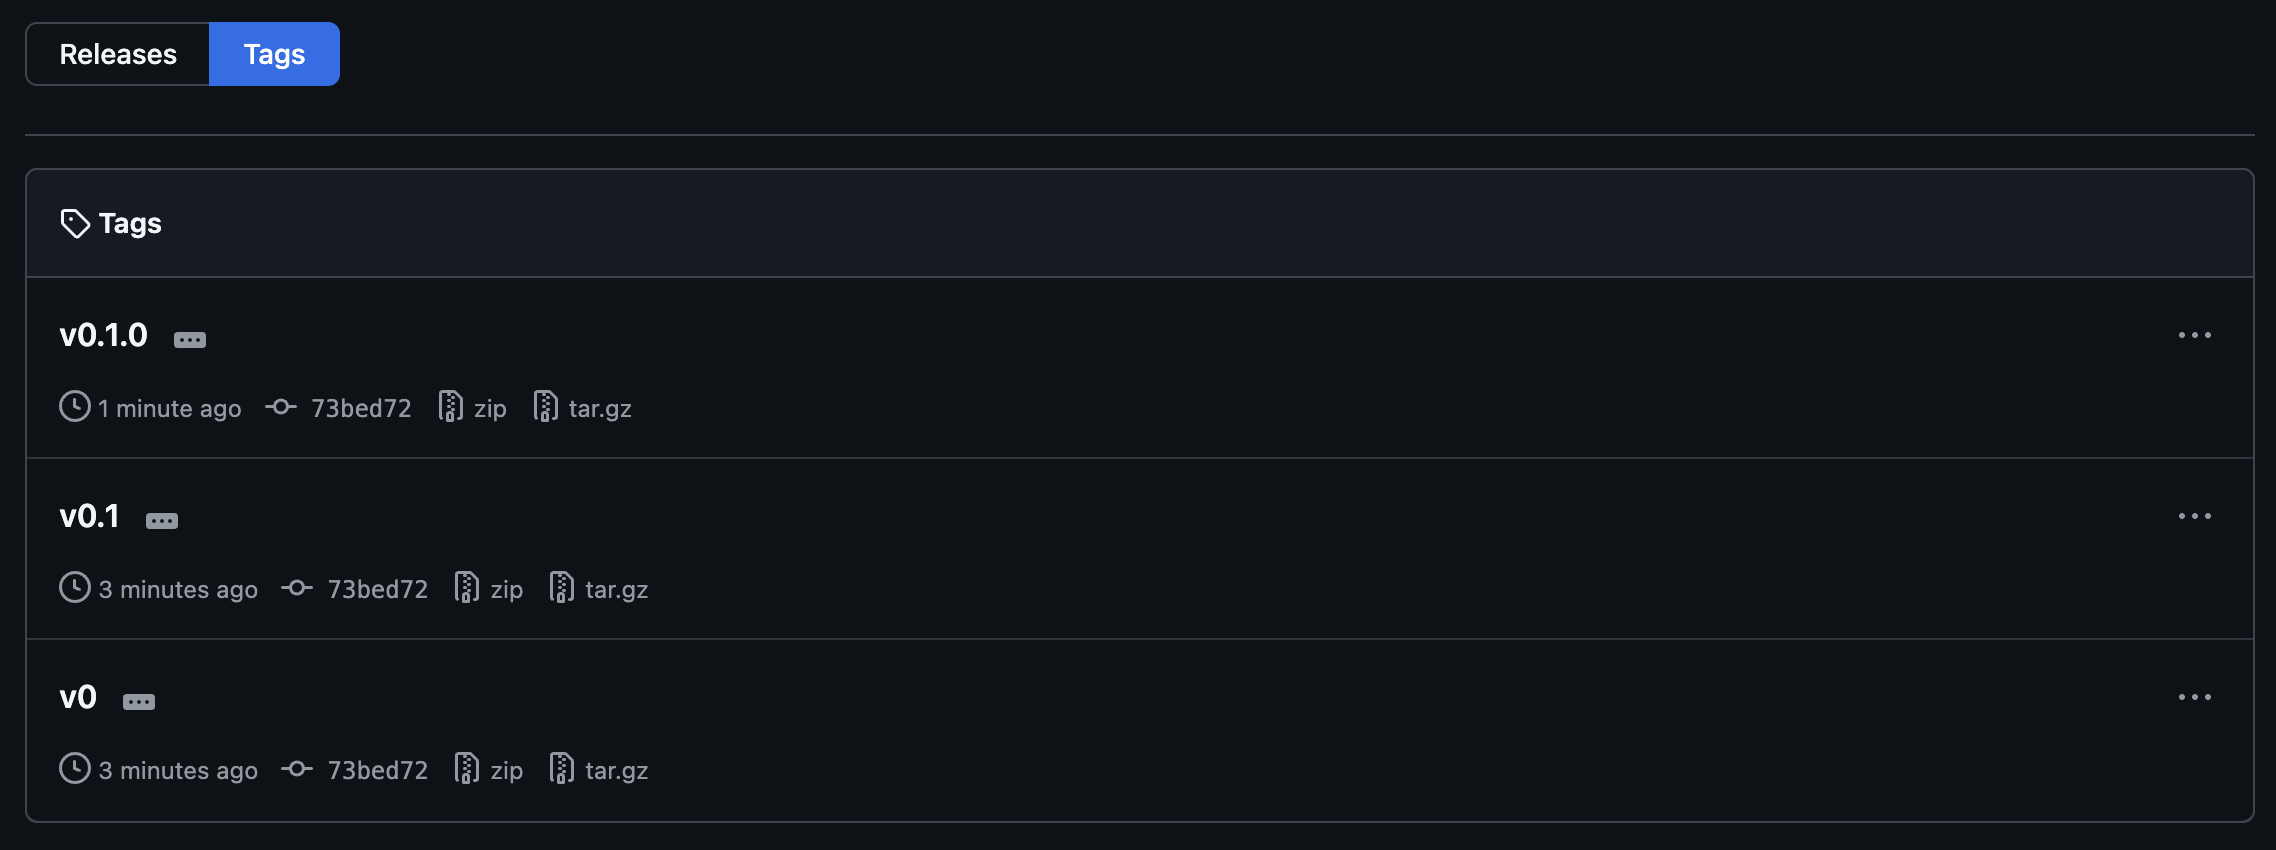
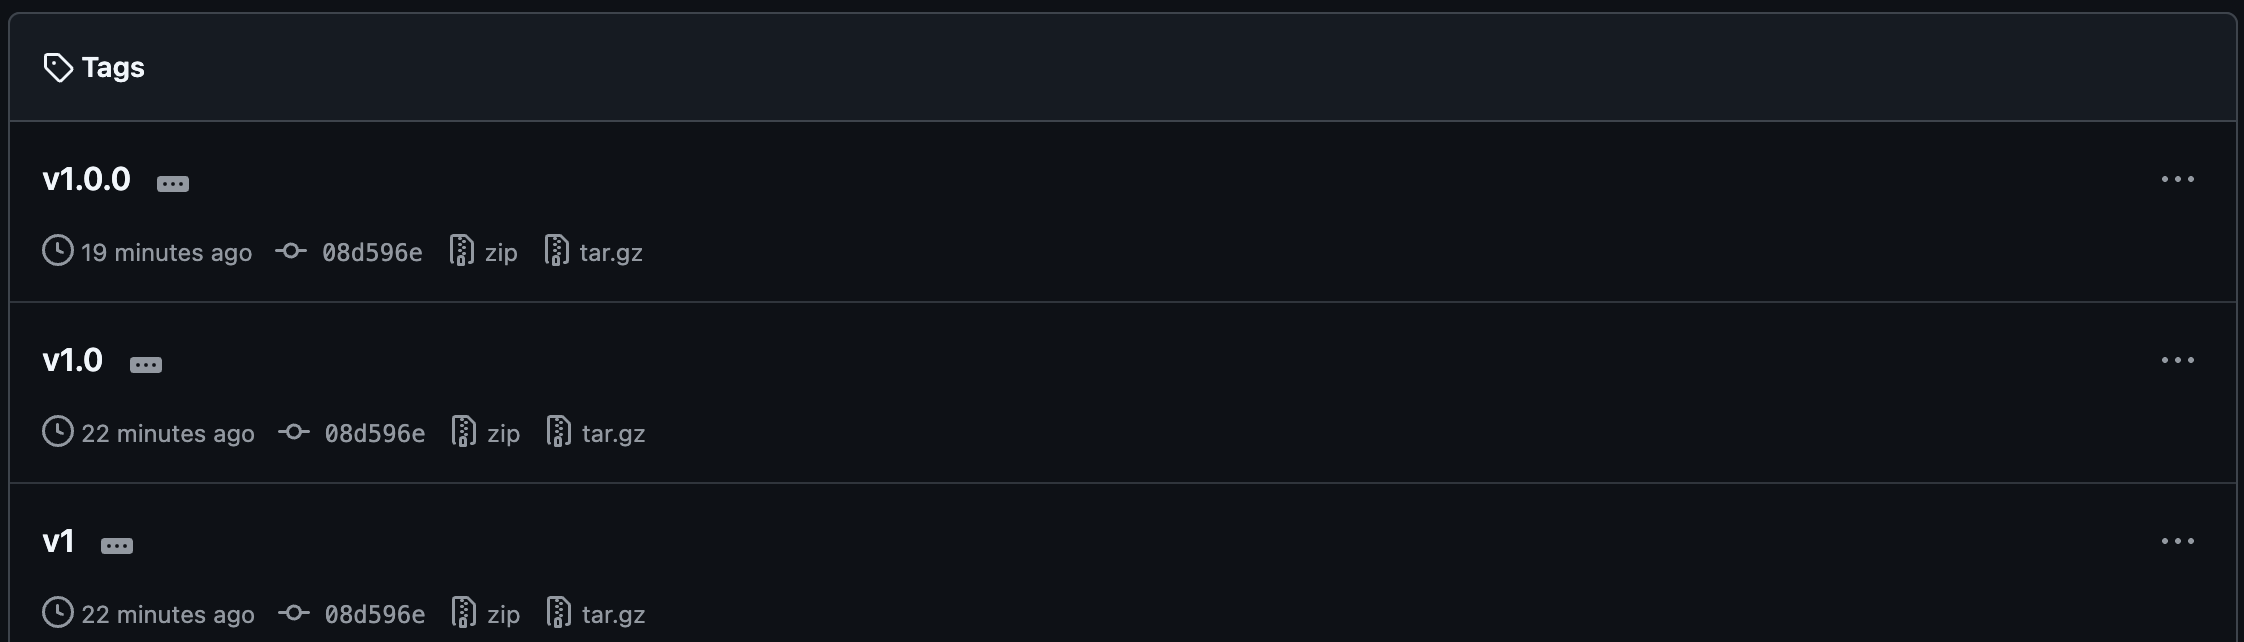
Lab updates

diff --git a/__tests__/html_actuator.test.ts b/__tests__/html_actuator.test.ts
@@ -83,22 +83,6 @@ describe('HTMLActuator', () => {
     })
   })
 
-  describe('updateScore()', () => {
-    it('Updates the score', () => {
-      const clearContainer = jest
-        .spyOn(HTMLActuator, 'clearContainer')
-        .mockImplementation(() => {})
-
-      HTMLActuator.scoreContainer = document.createElement('div')
-      HTMLActuator.scoreContainer.textContent = '0'
-
-      HTMLActuator.updateScore(2)
-
-      expect(clearContainer).toHaveBeenCalledTimes(1)
-      expect(HTMLActuator.scoreContainer.textContent).toBe('2+2')
-    })
-  })
-
   describe('message()', () => {
     it('Sets the message (won)', () => {
       const p = document.createElement('p')

diff --git a/__tests__/game_manager.test.ts b/__tests__/game_manager.test.ts
@@ -154,7 +154,7 @@ describe('GameManager', () => {
 
       GameManager.addStartTiles()
 
-      expect(addStartTile).toHaveBeenCalledTimes(2)
+      expect(addStartTile).toHaveBeenCalled()
     })
   })
 

diff --git a/solutions/7-github-flow/application.ts b/solutions/7-github-flow/application.ts
@@ -4,6 +4,6 @@ import { GameManager } from './game_manager.js'
 window.requestAnimationFrame(function () {
   animFramePolyfill()
 
-  // Lab 6: Grid Size
+  // Lab 7: Grid Size
   new GameManager(5)
 })

diff --git a/src/application.ts b/src/application.ts
@@ -4,6 +4,6 @@ import { GameManager } from './game_manager.js'
 window.requestAnimationFrame(function () {
   animFramePolyfill()
 
-  // Lab 6: Grid Size
+  // Lab 7: Grid Size
   new GameManager(3)
 })

diff --git a/labs/10-create-a-release.md b/labs/10-create-a-release.md
@@ -20,7 +20,7 @@ changes that have been made, and also to provide a changelog for our users.
 1. Create a new release branch
 
    ```bash
-   git checkout -b release/v1.0.0
+   git checkout -b release/v2.0.0
    ```
 
 ## Task 2: Update the Release Version
@@ -30,13 +30,13 @@ releases and changelogs. In order to generate a release, you will need to update
 the version number in the `package.json` file.
 
 1. Open the [`package.json`](../package.json) file in your editor
-1. Change the value of the `version` key to `1.0.0`
+1. Change the value of the `version` key to `2.0.0`
 
    ```jsonc
    {
      "name": "@githubschool/gh-github-intermediate-template",
      "description": "GitHub Intermediate Training - Template",
-     "version": "1.0.0",
+     "version": "2.0.0",
      // ...
    ```
 
@@ -45,10 +45,10 @@ the version number in the `package.json` file.
 
    ```bash
    git add package.json
-   git commit -m "Release version 1.0.0"
+   git commit -m "Release version 2.0.0"
    ```
 
-1. Push the `release/v1.0.0` branch to GitHub
+1. Push the `release/v2.0.0` branch to GitHub
 
    ```bash
    git push
@@ -59,7 +59,7 @@ the version number in the `package.json` file.
 1. In your browser, navigate to your repository on GitHub
 1. Click on the **Pull requests** tab
 1. Click the **New pull request** button
-1. Click the **Compare** button, then select your `release/v1.0.0` branch
+1. Click the **Compare** button, then select your `release/v2.0.0` branch
 1. Click **Create pull request**
 1. Enter a title and description for your PR
 1. Click **Create pull request**
@@ -80,7 +80,7 @@ As other people in the class post their PRs, try to review and approve one.
 1. Ensure **Approve** is selected as the review type
 1. Click **Submit review**
 
-   ![Approved PR](images/approved-pr.png)
+   ![Approved PR](img/11-approved-pr.png)
 
 ## Task 5: Merge the Pull Request
 
@@ -107,13 +107,13 @@ Once your PR has been approved, you can merge it into `main`.
 ## Task 7: View the Release
 
 1. In your browser, navigate to your repository on GitHub
-1. Click on the **v1.0.0** link in the **Releases** section
+1. Click on the **v2.0.0** link in the **Releases** section
 
    ![Releases](img/10-releases.png)
 
 1. Review the auto-generated release notes
 
-   <!-- TODO Screenshot -->
+   ![Release Notes](img/10-release-notes.png)
 
 ## Need Help?
 

diff --git a/labs/11-deploy-to-an-environment.md b/labs/11-deploy-to-an-environment.md
@@ -33,7 +33,7 @@ environment when a comment is made on a pull request (often referred to as
    git checkout -b feature/high-score
    ```
 
-1. Open the [`src/local_storage_manager.ts`](./src/local_storage_manager.ts)
+1. Open the [`src/local_storage_manager.ts`](../src/local_storage_manager.ts)
    file
 1. Locate the comment `// Lab 11: Update Best Score`
 1. Add the following code below the comment
@@ -72,26 +72,19 @@ environment when a comment is made on a pull request (often referred to as
 1. In the comment text field, enter `.deploy`
 
    In a few seconds, you should see a comment is automatically to the pull
-   request stating a deployment is in progress.
+   request stating a deployment is in progress. You should also see that a
+   deployment has been initiated.
 
-   <!-- TODO Screenshot -->
-
-   You should also see that a deployment has been initiated.
-
-   <!-- TODO Screenshot -->
+   ![Start Deployment](./img/11-start-deployment.png)
 
 1. Wait for the deployment to complete
-
-   <!-- TODO Screenshot -->
 
    Another comment will be added to the pull request with a link to the
    deployment.
 
-   <!-- TODO Screenshot -->
+   ![Deployment Complete](./img/11-deployment-complete.png)
 
 1. Click the link to view the deployed game
-
-   <!-- TODO Screenshot -->
 
    As you play the game, your high score should now be saved in the **BEST**
    box.
@@ -108,26 +101,19 @@ is merged.
 1. In the comment text field, enter `.deploy main`
 
    In a few seconds, you should see a comment is automatically to the pull
-   request stating a deployment is in progress.
+   request stating a deployment is in progress. You should also see that a
+   deployment has been initiated.
 
-   <!-- TODO Screenshot -->
-
-   You should also see that a deployment has been initiated.
-
-   <!-- TODO Screenshot -->
+   ![Start Rollback](./img/11-start-rollback.png)
 
 1. Wait for the deployment to complete
 
-   <!-- TODO Screenshot -->
-
-   Another comment will be added to the pull request with a link to the
+   Another comment will be added to the pull request with a link to the rollback
    deployment.
 
-   <!-- TODO Screenshot -->
+   ![Rollback Complete](./img/11-rollback-complete.png)
 
 1. Click the link to view the deployed game
-
-   <!-- TODO Screenshot -->
 
    As you play the game, your high score should no longer be saved.
 

diff --git a/labs/3-git-bisect.md b/labs/3-git-bisect.md
@@ -32,7 +32,8 @@ introduced, but you know it wasn't there when you first created the game.
    ```
 
    From the output of the above command, find a commit where the code change is
-   not present and copy the commit hash.
+   not present and copy the commit hash. You can simply select the earliest
+   commit in the logs (the one labeled `Initial commit`).
 
 1. Indicate a commit where you know the code does not contain the change you're
    looking for
@@ -61,11 +62,10 @@ ones.
    # Found
    $ grep -w "expect(true).toBe(false)" __tests__/keyboard_input_manager.test.ts
     expect(true).toBe(false);
-   $
 
    # Not found
    $ grep -w "expect(true).toBe(false)" __tests__/keyboard_input_manager.test.ts
-   $
+
    ```
 
 1. If the change is present, tell `git bisect` that the current commit is bad
@@ -128,6 +128,7 @@ ones.
    Make sure to replace `expect(true).toBe(false)` with the correct test code.
 
    ```typescript
+   // Lab 3: Git Bisect
    const listen = jest
      .spyOn(KeyboardInputManager, 'listen')
      .mockImplementation(() => {})

diff --git a/labs/2-add-tags.md b/labs/2-add-tags.md
@@ -49,7 +49,7 @@ versions of the game.
    step.
 
    ```bash
-   git tag -a v0.1.0 -m "Release version 0.1.0" <sha>
+   git tag -a v1.0.0 -m "Release version 1.0.0" <sha>
    ```
 
 1. Create lightweight tags for the major and minor versions
@@ -58,8 +58,8 @@ versions of the game.
    step.
 
    ```bash
-   git tag v0.1 <sha>
-   git tag v0 <sha>
+   git tag v1.0 <sha>
+   git tag v1 <sha>
    ```
 
 ## Task 3: Push the Tags to GitHub
@@ -81,7 +81,7 @@ interact with tags. For now, you'll simply push the tags to GitHub.
 
    ![Tags](./img/2-tags.png)
 
-1. Click the **v0.1.0** tag to view the annotated tag notes
+1. Click the **v1.0.0** tag to view the annotated tag notes
 
    ![Annotated Tag](./img/2-annotated-tag.png)
 

diff --git a/labs/5-cherry-pick.md b/labs/5-cherry-pick.md
@@ -35,6 +35,7 @@ feature branch and remove the commits from the default branch.
 1. Add the following code below the comment
 
    ```ts
+   // Lab 5: New Game Button
    KeyboardInputManager.bindButtonPress(
      '.restart-button',
      KeyboardInputManager.restart

diff --git a/labs/7-github-flow.md b/labs/7-github-flow.md
@@ -34,7 +34,7 @@ into `main`.
 1. Update the input parameter to `GameManager` to `5` instead of `3`
 
    ```ts
-   // Lab 6: Grid Size
+   // Lab 7: Grid Size
    new GameManager(5)
    ```
 
